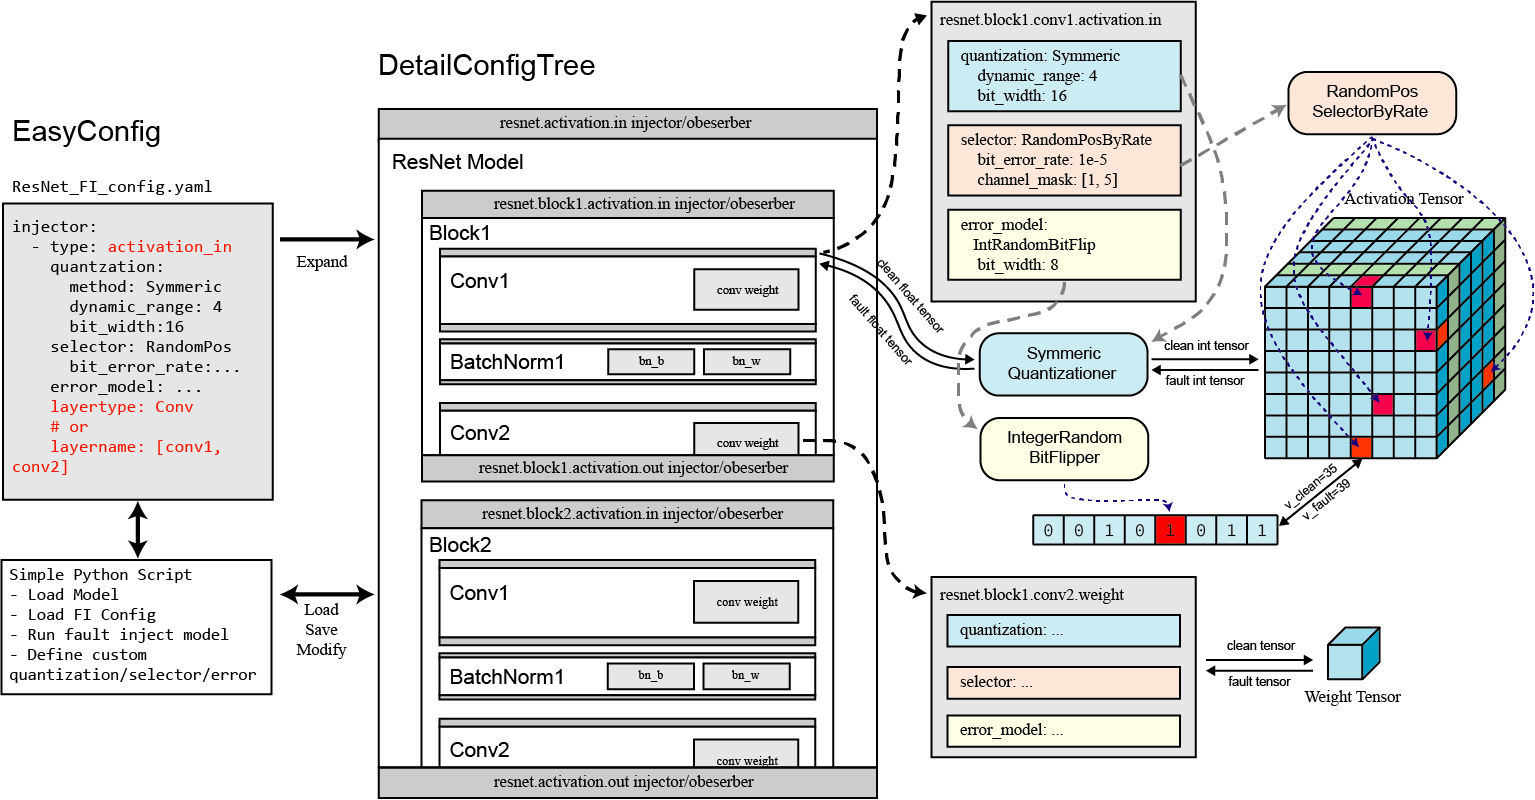
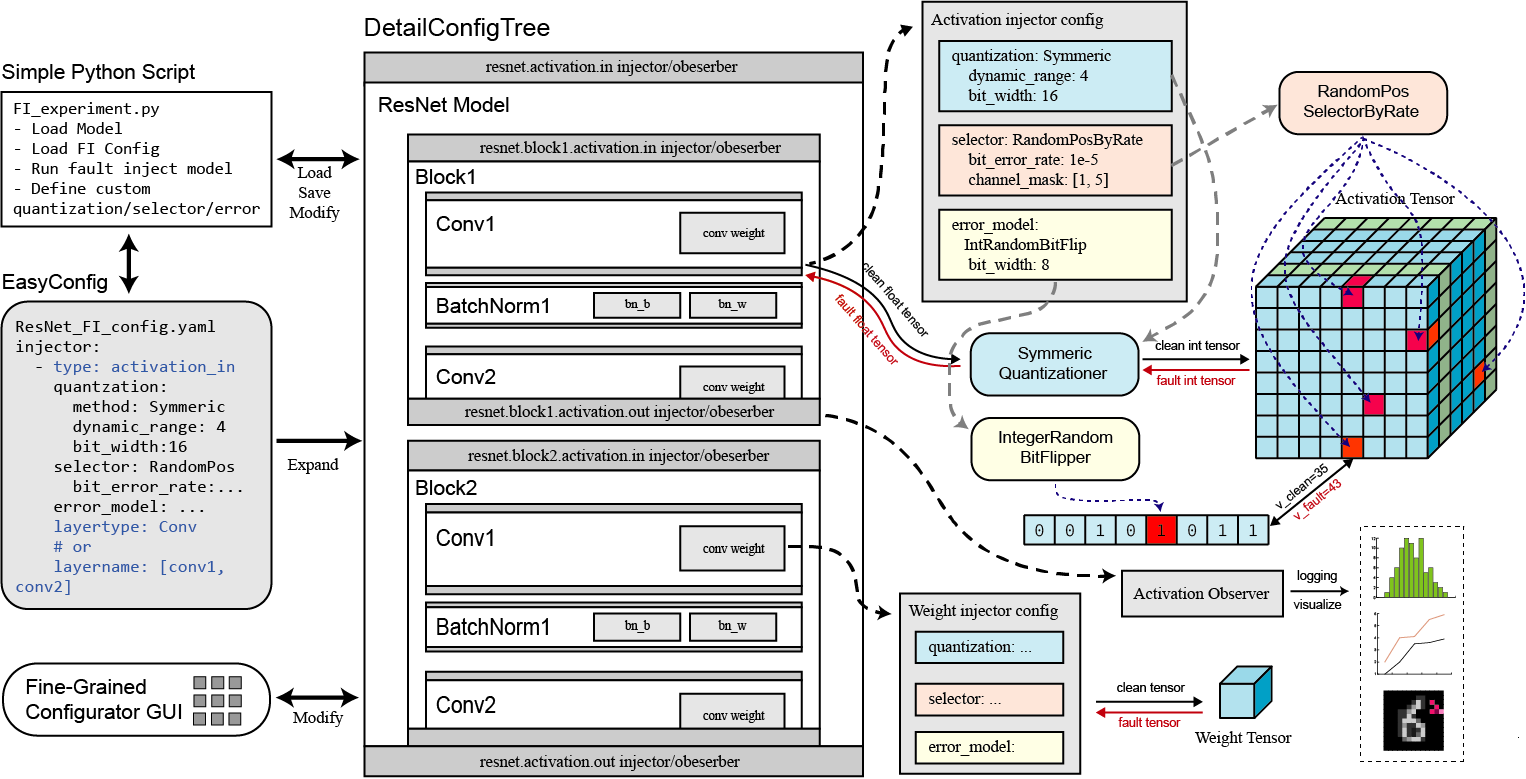
update doc; add yolo experiment;

diff --git a/docs/assets/extra_style.css b/docs/assets/extra_style.css
@@ -1,0 +1,3 @@
+.md-typeset {
+font-size: .7rem;
+}

diff --git a/experiments/yolov8.py b/experiments/yolov8.py
@@ -1,0 +1,17 @@
+# Validate fault injection to yolov8 by one line config
+# Following yolov8's official docs https://docs.ultralytics.com/modes/val/
+from ultralytics import YOLO
+from mrfi import MRFI, EasyConfig
+
+# Load a model
+model = YOLO('experiments/yolov8n.pt')  # load an official model
+fi_model = MRFI(model.model, EasyConfig.load_file('easyconfigs/default_fi.yaml')) # YOLO.model is real pytorch model
+# fi_model.save_config('detailconfigs/yolov8n_dt.yaml') # save detail config
+
+# Validate the model
+metrics = model.val(data='coco128.yaml') # 128 images
+print(metrics.box.map50) # got 0.03~0.06
+
+with fi_model.golden_run():
+    metrics = model.val(data='coco128.yaml')
+    print(metrics.box.map50) # got 0.60

diff --git a/mrfi/selector.py b/mrfi/selector.py
@@ -249,7 +249,7 @@ def SelectedDimRandomPositionByRate(shape, rate: float, poisson: bool = True, **
     return _get_pos_with_mask(shape, _get_num_by_rate(shape, rate_reduce, poisson), dimmasks, False)
 
 
-def FixedPixelByNumber(shape, n: int, pixel: Union[int, tuple], per_instance = False):
+def FixedPixelByNumber(shape, n: int, pixel: Union[int, tuple], per_instance: bool = False):
     """Select random channel on one fixed pixel(height x weight dimension).
 
     Args:

diff --git a/mrfi/experiment.py b/mrfi/experiment.py
@@ -20,7 +20,7 @@ def Acc_experiment(model: Union[MRFI, torch.nn.Module], dataloader: DataLoader):
     """Return classification accuracy on dataset.
 
     Args:
-        fi_model: Target model.
+        model: Target model.
         dataloader: Yields a series of tuple of (batched) input images and classification label.
     """
     acc_fi, n_inputs = 0, 0

diff --git a/docs/usage.md b/docs/usage.md
@@ -1,39 +1,120 @@
 # Basic Usage
 
-## Examples
+## Beginning
 
-### Observe network weights and activations
+As a starting point, you can give a **PyTorch model** (`torch.nn.Module` type) and a **EasyConfig** to MRFI to create a model with fault injection.
 
-We provide `get_activation_info` and `get_weight_info` in `mrfi.experiment`.
+```python
+from mrfi import MRFI, EasyConfig
+from mymodel import Model  # custom model
+from torchvision.models import resnet18  # model from torchvision
+
+fi_model = MRFI(Model(), EasyConfig.load_file('easyconfigs/default_fi.yaml'))
+fi_resnet18 = MRFI(resnet18(), EasyConfig.load_file('easyconfigs/default_fi.yaml'))
+```
+
+Then, you can use `fi_model` as a regular PyTorch model for inference, and the output of model is affected by fault injection. 
+More exactly, the hooks inserted by MRFI will conduct fault injection automatically according to the configuration in **EasyConfig**.
+
+To test accuracy of a classification model, you may write a loop to compare the outputs and labels. 
+For convenience, we also provide some utility functions in `mrfi.experiment` that can do it in one line, such as `Acc_experiment`.
+
+See complete exmpale of [Basic fault injection on LeNet](basic_faultinjection.md)
+
+### EasyConfig object
+
+We provide some template of easyconfig file in folder `easyconfigs/`. 
+You can modify these configuration files according to your needs and load it by  `EasyConfig.load_file()`.
+
+```yaml title="easyconfigs/default_fi.yaml"
+faultinject:
+  - type: activation
+    quantization:
+      method: SymmericQuantization
+      dynamic_range: auto
+      bit_width: 16
+    enabled: True
+    selector:
+      method: RandomPositionByRate
+      poisson: True
+      rate: 1e-3
+    error_mode:
+      method: IntSignBitFlip
+      bit_width: 16
+
+    module_name: [conv, fc] # Match layers that contain these name
+    module_type: [Conv2d, Linear] # Or match layers contain these typename
+```
+It is clear the quantization, selector, error_mode method used for fault injection, as well as their parameters. 
+The order of these config blocks in same level is not important because YAML regards them as dictionary.
+
+Let's look one parameter. `rate` is a parameter of selector `RandomPositionByRate` indicate the indicate the probability of each tensor value being selected.
+Here, we set  `rate: 1e-3` to significantly indicate that error injection is working, which is a relative high error rate for fault injection.
+
+You can use the commonly used methods already provided by MRFI as the execution module, or you can customize new methods. 
+Note that each method can have different parameter names, specified by their definition.
+
+The last two lines indicate the layers that require fault injection. 
+MRFI will try to match all layers specified by `module_name` or `module_type` and set fault injection above.
+Before write a custom fault injection in your own model, 
+You can type `print(model)` to get name and type of all layers of the model.
+
+If you don't want to create a new YAML EasyConfig file,
+you can also load a custom EasyConfig yaml from python string by `EasyConfig.load_string()`,
+or modify EasyConfig object by python code directly before create a MRFI object.
+
+See >>> EasyConfig Usage <<< to learn more usage and special rules of EasyConfig,
+
+
+### Observing variables
+
+It is helpful to make some observation before fault injection, such as the shape of tensors and the min-max range of tensors.
+When conducting fault injection, internal observers are also helpful for recognize error propagation.
+
+In MRFI, observers can be defined in **EasyConfig**, then they will be called every inference. 
+You can collect observation results by using `fi_model.observers_result()` after each run.
+
+For convenience, `mrfi.experiment` provides some function for inserting observer temporarily and making inference.
+`get_activation_info` and `get_weight_info` in `mrfi.experiment` are powerful, allow us to perform various observations in one line of code.
 They can be used to observe the shape, distribution, and sampling & visualization of network data.
 
-[>> Example of basic observe on LeNet](basic_observe.md)
+See [>> Example of basic observe on LeNet with interactive command](basic_observe.md).
 
-### A coarse-grained configuation fault inject experiment
-For example, the following code perform a quantized random integer bit flip injection on LeNet, 
-and find the relation between bit error rate (BER) and classification accuracy.
+### Golden run
 
-```python title="LeNet default fault injection"
-from dataset.lenet_cifar import make_testloader, LeNet
-from mrfi import MRFI, EasyConfig
-from mrfi.experiment import BER_Acc_experiment
+To inference a `fi_model` without fault injection, we suggest using a golden_run context to include the code that calls the model,
+which will temporary disable all fault injection on the model:
 
-testloader = make_testloader(1000, batch_size = 128) # test on 1000 cifar-10 images
-
-# Create fault inject model
-fi_model = MRFI(network = LeNet(trained=True).eval(), 
-                EasyConfig.load_file('easyconfigs/default_fi.yaml'))
-
-################### A Simple acccuracy experiment #####################
-# Test accuracy under fault injection with select rate = 1e-3 which specified in "default_fi.yaml"
-print('FI Acc: ', Acc_experiment(fi_model, dataloader))
-# Test accuracy w/o fault inject
+```python
 with fi_model.golden_run():
-    print('golden run Acc: ', Acc_experiment(fi_model, dataloader))
+    # Disable MRFI in this context
+    out_golden = fi_model(input_data)
 
-######################## BER_Acc_experiment ###########################
-# Get selector handler because BER_Acc_experiment needs to modify selection rate in experiment
-selector_cfg = fi_model.get_configs('activation.0.selector')
-BER, Acc = BER_Acc_experiment(fi_model, selector_cfg, testloader, [1e-6, 1e-5, 1e-4, 1e-3])
-print('Bit error rate and accuracy: ', BER, Acc)
+out_fi = fi_model(input_data)
+
+# Or disable MRFI directly
+fi_model.golden = True
+out_golden = fi_model(input_data)
 ```
+
+### Fine-grained and advanced configuration
+
+MRFI allows different error injection methods and parameters to be configured on each layer, as it has a tree like detailed configuration **ConfigTree** inside. 
+*In fact, when we created MRFI objects from EasyConfig earlier, the configuration was automatically copied to all matching layers and modules to create ConfigTree.*
+
+To execute different error injection parameters on different layers, one way is to write several injection configuration in **EasyConfig** and let MRFI to expand then to distinct layers.
+However, a more flexible approach is to directly modify **ConfigTree**. To save or load detail config tree, you can use following code:
+
+```python
+fi_model = MRFI(Model(), 'easyconfigs/default_fi.yaml')
+
+# Save config tree to a YAML file
+fi_model.save_config('model_config_tree.yaml')
+
+# A detail config tree can be loaded by
+fi_model_new = MRFI(Model(), 'model_config_tree.yaml')
+```
+
+It is possible to manually modify the ConfigTree YAML configuration file and then load it. Due to the large amount of data in ConfigTree, we also provide some APIs for batch modifying the built-in ConfigTree of MRFI objects.
+
+See fine-grained configuration and advanced configuration for more information.

diff --git a/docs/basic_faultinjection.md b/docs/basic_faultinjection.md
@@ -1,0 +1,40 @@
+# Fault injection on LeNet
+
+## A coarse-grained configuation fault inject experiment
+For example, the following code perform a quantized random integer bit flip injection on LeNet.
+
+```python title="Setup LeNet default fault injection"
+from dataset.lenet_cifar import make_testloader, LeNet
+from mrfi import MRFI, EasyConfig
+from mrfi.experiment import Acc_experiment, Acc_golden, BER_Acc_experiment
+
+testloader = make_testloader(1000, batch_size = 128) # test on 1000 cifar-10 images
+
+# Create fault inject model
+fi_model = MRFI(network = LeNet(trained=True).eval(), 
+                EasyConfig.load_file('easyconfigs/default_fi.yaml'))
+
+# fi_model can be used as regular PyTorch model
+print(fi_model(torch.zeros(1,3,32,32)).shape)
+```
+
+```python title="Simple fault injection acccuracy experiment"
+# Test accuracy under fault injection with select rate = 1e-3,
+#  which specified in "easyconfigs/default_fi.yaml"
+print('FI Acc: ', Acc_experiment(fi_model, dataloader))
+
+# Test accuracy w/o fault inject
+with fi_model.golden_run():
+    print('golden run Acc: ', Acc_experiment(fi_model, dataloader))
+# Another way to get golden run accuracy 
+print('golden run Acc: ', Acc_golden(fi_model, dataloader))
+```
+
+Find the relation between bit error rate (BER) and classification accuracy.
+
+```python title="BER_Acc_experiment"
+# Get selector handler because BER_Acc_experiment needs to modify selection rate in experiment
+selector_cfg = fi_model.get_configs('activation.0.selector')
+BER, Acc = BER_Acc_experiment(fi_model, selector_cfg, testloader, [1e-6, 1e-5, 1e-4, 1e-3])
+print('Bit error rate and accuracy: ', BER, Acc)
+```

diff --git a/docs/index.md b/docs/index.md
@@ -14,7 +14,7 @@ Compared with other injection frameworks, the biggest feature is that it can fle
 
 In preliminary experiments, you may not want to face complex experimental configurations. For example, simply observing the parameters of the network model, or conducting error injection experiments with a simple global configuration. MRFI also provide simple API for observation and course-grained fault injection.
 
-[>>Examples for basic usage](usage.md) 
+See [>>> MRFI Basic usage <<<](usage.md) for more information.
 
 ## Supported Features
 

diff --git a/readme.md b/readme.md
@@ -127,6 +127,8 @@ faultinject:
 
 Code in `mrfi/` are tested to ensure correctness. Test case are under `test/`.
 
+Set `logging.basicConfig(level = logging.DEBUG)` can get more runtime logging. It may be helpful when MRFI does not perform as expected.
+
 ### Unit Test
 
 ```bash

diff --git a/docs/quantization.md b/docs/quantization.md
@@ -1,1 +1,3 @@
+# quantization
+
 ::: mrfi.quantization

diff --git a/docs/error_mode.md b/docs/error_mode.md
@@ -1,1 +1,3 @@
+# error_mode
+
 ::: mrfi.error_mode

diff --git a/docs/experiment.md b/docs/experiment.md
@@ -1,1 +1,3 @@
+# experiment
+
 ::: mrfi.experiment

diff --git a/docs/observer.md b/docs/observer.md
@@ -1,1 +1,3 @@
+# observer
+
 ::: mrfi.observer
